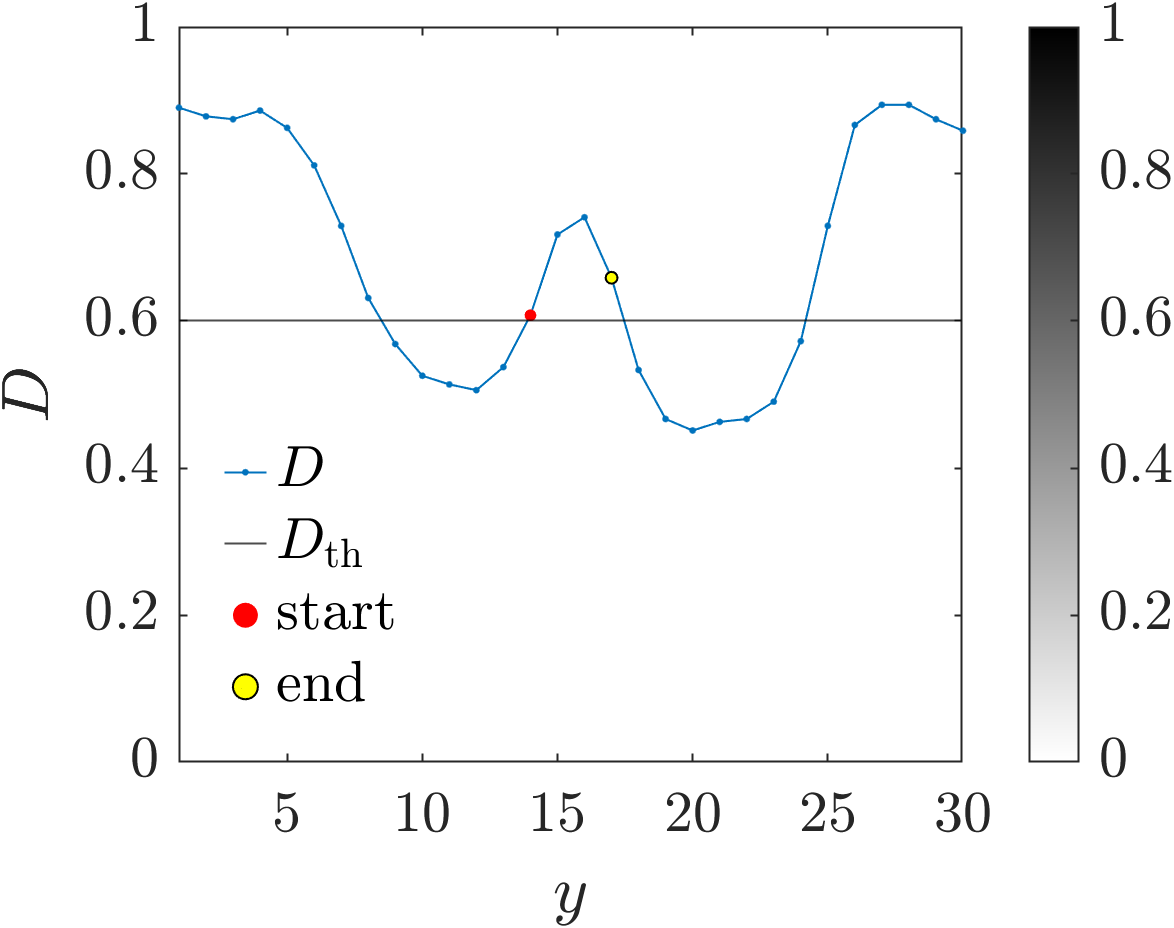
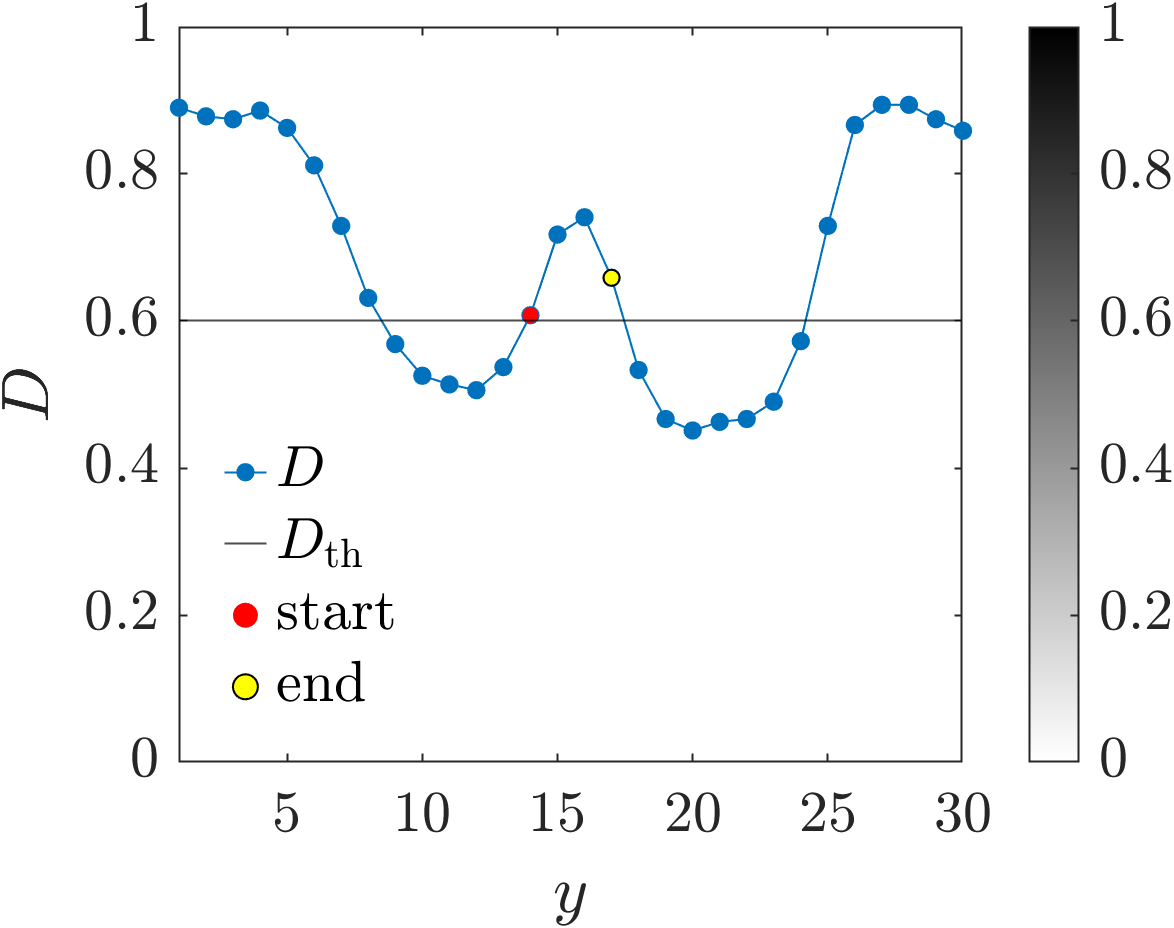
DarknessMap.plotDarknessColumnにMarkerSizeオプションを追加
線マーカー(ShowLineMarker=true)のサイズが5に固定されていたため、
darknessProfile.mのdarknessProfile_profileで指定できるようにする。

diff --git a/src/DarknessMap.m b/src/DarknessMap.m
@@ -68,18 +68,20 @@ classdef DarknessMap
             % x=xにおけるDをy方向にプロットする
             % ShowTitle,ShowColorbarは原稿用の図で不要なときにfalseにする
             % ShowLineMarkerは，必要なときはtrueにする
+            % MarkerSizeは，ShowLineMarker=trueのときのマーカーサイズ
             arguments
                 obj
                 x (1,1) double
                 opts.ShowTitle (1,1) logical = true
                 opts.ShowColorbar (1,1) logical = true
                 opts.ShowLineMarker (1,1) logical = false
+                opts.MarkerSize (1,1) double = 5
             end
             D_x = obj.dMat(:,x);
             idx = 1+(0:length(D_x)-1)'/obj.scaleFactor.row;
 
             if opts.ShowLineMarker
-                p = plot(idx,D_x,"Marker",".","MarkerSize",5);
+                p = plot(idx,D_x,"Marker",".","MarkerSize",opts.MarkerSize);
             else
                 p = plot(idx,D_x);
             end

diff --git a/scripts/slides/202609asj/darknessProfile.m b/scripts/slides/202609asj/darknessProfile.m
@@ -31,7 +31,7 @@ W_TH = 8;   % 溝底とみなす区間幅の上限[px]
 X_C = 1;         % 暗度分布を見る列（元スクリプトのX_C=30から変更）
 Y_VIEW = [1 30]; % 表示するyの範囲
 
-MARKER_SIZE = 8;
+MARKER_SIZE = 15;
 
 % 1の縦線の色と2のプロット線の色をこの値で揃える（既定の1本目の線色）
 LINE_COLOR = [0 0.4470 0.7410];
@@ -108,7 +108,7 @@ fig = createFigure([0 0 FIG_W_PROFILE FIG_H]);
 t = tiledlayout(fig,1,1,"Padding","tight");
 ax = nexttile(t); % plotDarknessColumnはgcaに描くのでnexttileを先に呼ぶ
 
-p = origD.plotDarknessColumn(X_C,ShowTitle=false,ShowColorbar=false,ShowLineMarker=true);
+p = origD.plotDarknessColumn(X_C,ShowTitle=false,ShowColorbar=false,ShowLineMarker=true,MarkerSize=MARKER_SIZE);
 p.Color = LINE_COLOR; % 1の縦線と色を揃える
 hold(ax,"on");
 yline(ax,D_TH,"-","LineWidth",0.5,"Color","k");
